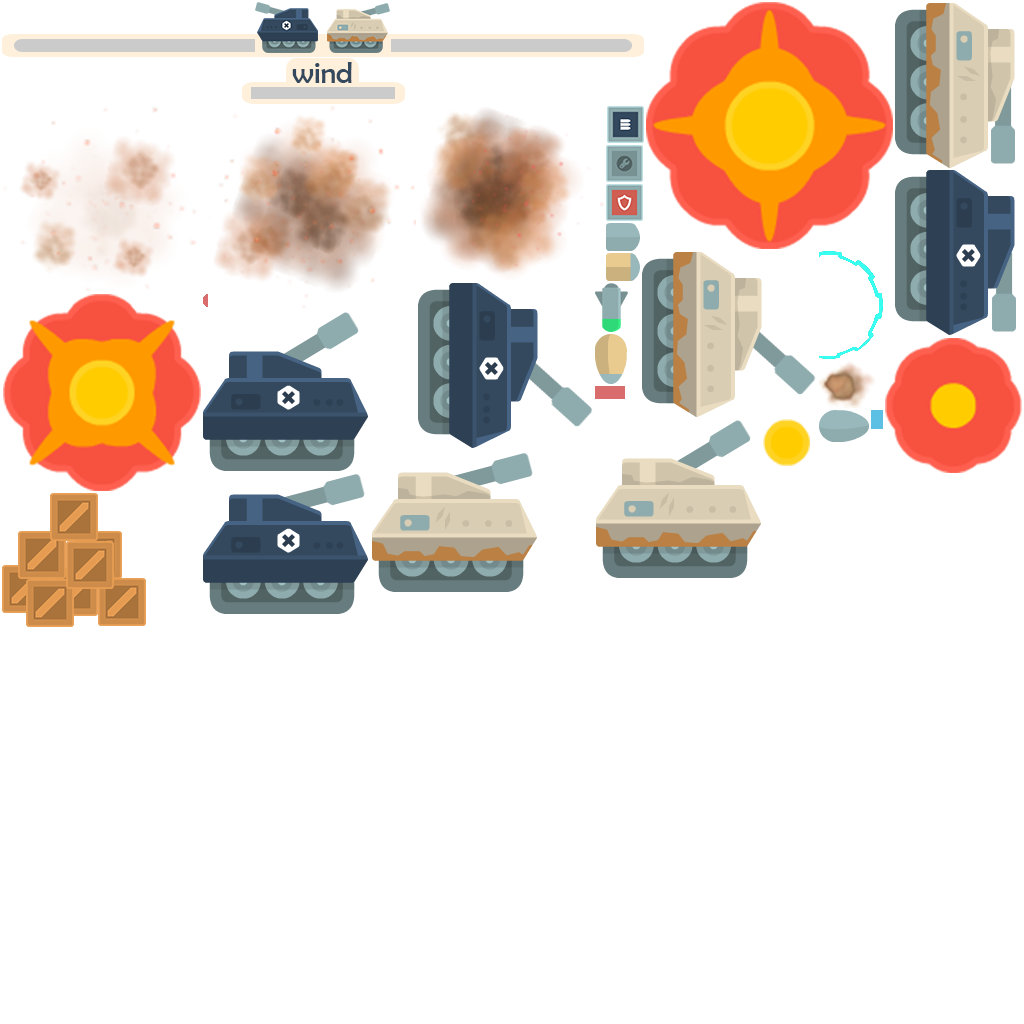
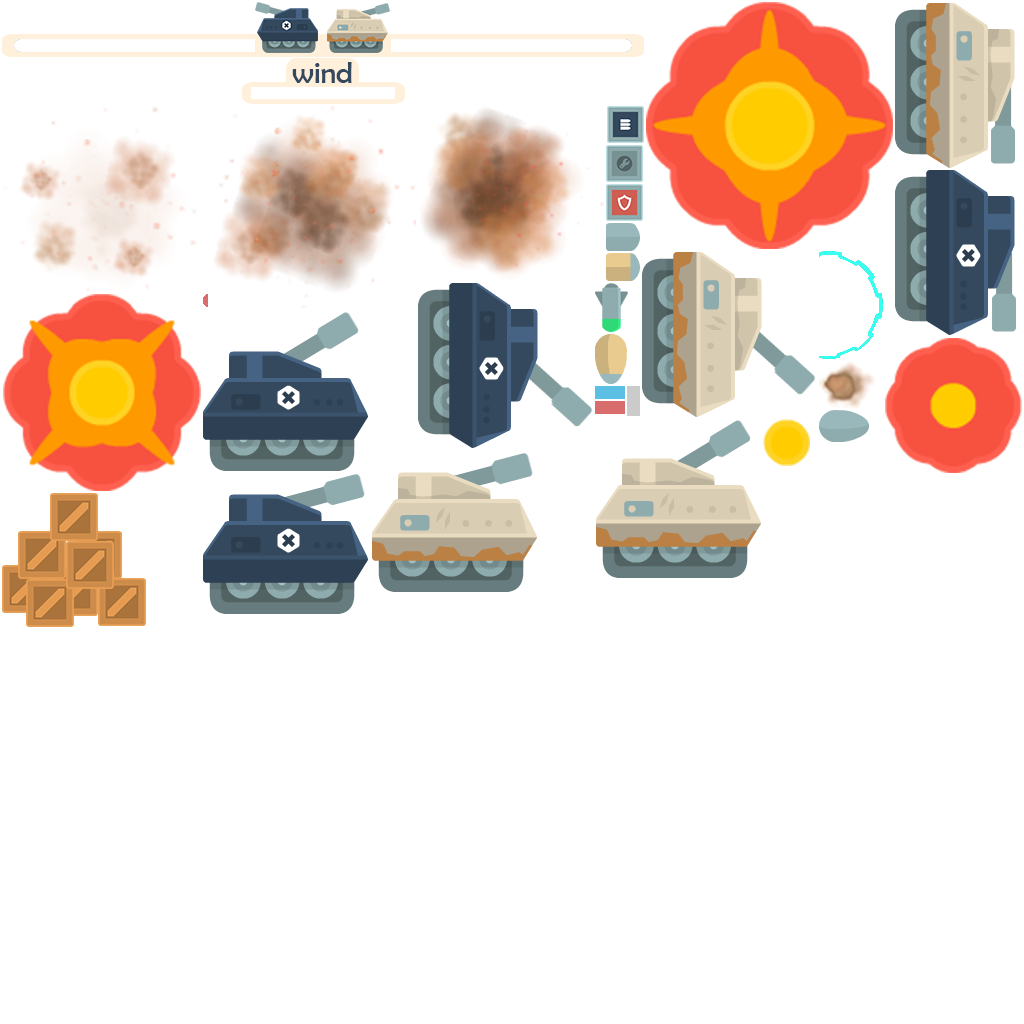
封装Progress，完善血条风条

diff --git a/Classes/Progress.cpp b/Classes/Progress.cpp
@@ -1,0 +1,31 @@
+#include "Progress.h"
+
+bool Progress::init(const char* background, const char* fillname)
+{
+	this->initWithSpriteFrameName(background);
+	ProgressTimer* fill = ProgressTimer::create(Sprite::createWithSpriteFrameName(fillname));
+	this->addChild(fill);
+	fill->setType(ProgressTimer::Type::BAR);
+	fill->setMidpoint(Point(0, 0.5));
+	fill->setBarChangeRate(Point(1.0, 0));
+	fill->setPosition(this->getContentSize() / 2);
+	fill->setPercentage(100);
+	this->setFill(fill);
+	return true;
+}
+
+Progress* Progress::create(const char* background, const char* fillname)
+{
+	Progress* progress = new Progress();
+	if (progress && progress->init(background, fillname))
+	{
+		progress->autorelease();
+		return progress;
+	}
+	else
+	{
+		delete progress;
+		progress = NULL;
+		return NULL;
+	}
+}

diff --git a/Classes/FireMaster.h b/Classes/FireMaster.h
@@ -3,6 +3,7 @@
 
 #include "cocos2d.h"
 #include "FireMaster.h"
+#include "Progress.h"
 #include "ui/CocosGUI.h"
 
 using namespace std;
